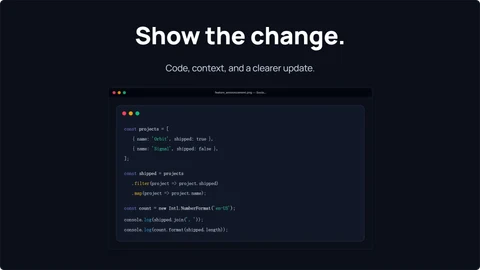
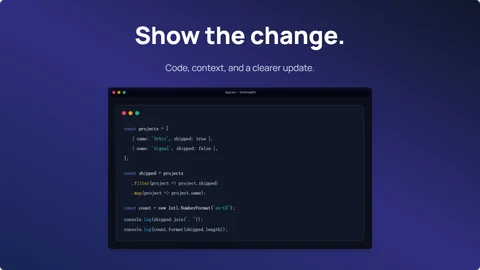
fix: refresh template sample titles and distinguish code frame

diff --git a/src/templates/apply.ts b/src/templates/apply.ts
@@ -15,13 +15,16 @@ export function buildTemplateSnapshot(before: EditorSnapshot, template: MockupTe
   const sample = MOCKUP_PRESETS.find(item => item.id === template.sampleId);
   if (!sample) throw new Error('Template sample not found');
   const replaceSample = before.primaryMediaOrigin?.kind === 'builtin';
+  // Refresh inherited sample labels, including stale labels from older template
+  // sessions. A custom title (or any user/unknown media title) remains user-owned.
+  const inheritedSampleTitle = MOCKUP_PRESETS.some(preset => preset.title === before.windowTitle);
   return {
     ...before,
     templateContext: { id: template.id, version: template.version, mediaRegion: { ...template.mediaRegion }, textRoles: { ...ids } },
     primaryMediaOrigin: replaceSample ? { kind: 'builtin', sampleId: sample.id } : before.primaryMediaOrigin ?? { kind: 'unknown' },
     imageSrc: replaceSample ? sample.svgDataUri : before.imageSrc,
     imageName: replaceSample ? `${template.id}-sample.svg` : before.imageName,
-    windowTitle: before.windowTitle,
+    windowTitle: replaceSample && inheritedSampleTitle ? sample.title : before.windowTitle,
     selectedPreset: replaceSample ? sample.id : before.selectedPreset,
     textDocument: { version: 1, layers: [
       { ...template.text.headline, id: ids.headline },

diff --git a/src/templates/catalog.ts b/src/templates/catalog.ts
@@ -36,7 +36,7 @@ export const TEMPLATE_CATALOG: readonly MockupTemplate[] = [
     id: 'code-terminal', version: 1, name: 'Code & Terminal', description: 'Share a focused code or terminal update.', badge: 'Developer',
     thumbnail: '/templates/code-terminal-v1.webp', sampleId: 'code',
     canvas: { aspectRatioId: '16-9', width: 1920, height: 1080 },
-    style: { gradientId: 'studio-dark', windowTheme: 'mac-dark', padding: 64, roundedCorners: 12, shadowLevel: 'soft', shadowOpacity: 40 },
+    style: { gradientId: 'atlantic', windowTheme: 'mac-dark', padding: 64, roundedCorners: 12, shadowLevel: 'soft', shadowOpacity: 40 },
     mediaRegion: { x: 0, y: .30, width: 1, height: .68 },
     text: { headline: text('Show the change.', 96, 800, '#FFFFFF', true), description: text('Code, context, and a clearer update.', 36, 400, '#CBD5E1', false) },
   },
